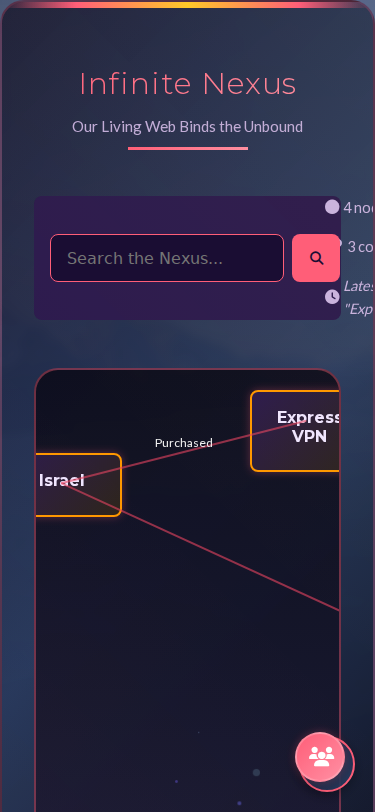
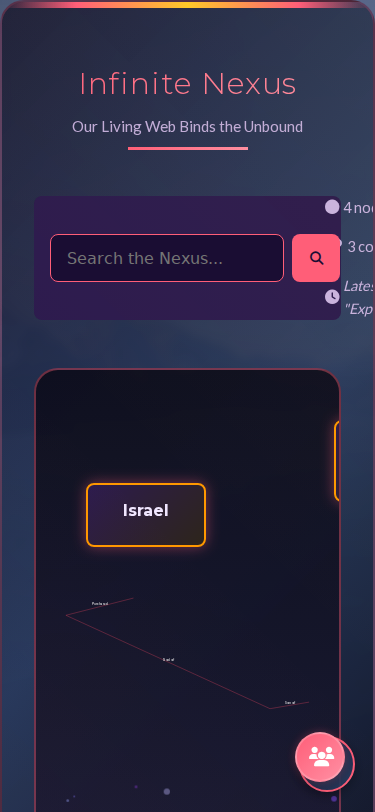
fix: improve Infinite Nexus mobile design and layout
- Add mobile responsive styles for preview controls (vertical layout)
- Center canvas initially to show more nodes in viewport
- Increase connection label font size from 12px to 14px for readability
- Fix stats text overflow on mobile with flex-direction: column
- Improve connection label rendering (only show if label exists)
- Better initial view with centered canvas positioning

🤖 Generated with [Claude Code](https://claude.com/claude-code)

diff --git a/front/js/mindmap-preview.js b/front/js/mindmap-preview.js
@@ -161,6 +161,29 @@ class MindmapPreview {
 
         // Store bounds for connection rendering
         this.canvasBounds = { minX, minY, maxX, maxY, padding, canvasWidth, canvasHeight };
+
+        // Center the canvas initially to show more nodes
+        this.centerCanvas();
+    }
+
+    centerCanvas() {
+        if (!this.canvasBounds) return;
+
+        const { canvasWidth, canvasHeight } = this.canvasBounds;
+        const containerRect = this.container.getBoundingClientRect();
+
+        // Calculate offset to center the canvas in the viewport
+        const offsetX = (containerRect.width - canvasWidth) / 2;
+        const offsetY = (containerRect.height - canvasHeight) / 2;
+
+        // Apply initial transform
+        this.panOffsetX = offsetX;
+        this.panOffsetY = offsetY;
+        this.currentTranslateX = offsetX;
+        this.currentTranslateY = offsetY;
+
+        this.nodesContainer.style.transform = `translate(${offsetX}px, ${offsetY}px)`;
+        this.connectionsContainer.style.transform = `translate(${offsetX}px, ${offsetY}px)`;
     }
     
     renderConnections() {
@@ -197,20 +220,24 @@ class MindmapPreview {
                 line.setAttribute('stroke-width', '2');
                 line.classList.add('mindmap-connection');
 
-                // Add relationship label
-                const text = document.createElementNS('http://www.w3.org/2000/svg', 'text');
-                const midX = (x1 + x2) / 2;
-                const midY = (y1 + y2) / 2;
-                text.setAttribute('x', midX);
-                text.setAttribute('y', midY - 5);
-                text.setAttribute('text-anchor', 'middle');
-                text.setAttribute('fill', '#f1f1f1');
-                text.setAttribute('font-size', '12px');
-                text.textContent = edge.relationshipLabel;
-                text.classList.add('mindmap-label');
+                // Add relationship label (only if label exists and is meaningful)
+                if (edge.relationshipLabel && edge.relationshipLabel.trim()) {
+                    const text = document.createElementNS('http://www.w3.org/2000/svg', 'text');
+                    const midX = (x1 + x2) / 2;
+                    const midY = (y1 + y2) / 2;
+                    text.setAttribute('x', midX);
+                    text.setAttribute('y', midY - 5);
+                    text.setAttribute('text-anchor', 'middle');
+                    text.setAttribute('fill', '#f1f1f1');
+                    text.setAttribute('font-size', '14px');
+                    text.setAttribute('font-weight', '500');
+                    text.textContent = edge.relationshipLabel;
+                    text.classList.add('mindmap-label');
+
+                    this.connectionsContainer.appendChild(text);
+                }
 
                 this.connectionsContainer.appendChild(line);
-                this.connectionsContainer.appendChild(text);
             }
         });
     }

diff --git a/front/index.html b/front/index.html
@@ -63,7 +63,7 @@
     <link rel="stylesheet" href="css/critical.css?v=7.9">
     
     <!-- 3. GLOBAL STYLES - Site-wide styles loaded synchronously -->
-    <link rel="stylesheet" href="css/styles.css?v=7.7">
+    <link rel="stylesheet" href="css/styles.css?v=7.8">
     
     <!-- 4. PROGRESSIVE LOADING - Non-critical CSS loaded asynchronously -->
     <link rel="preload" href="css/layout.css?v=8.5" as="style" onload="this.onload=null;this.rel='stylesheet'">
@@ -86,8 +86,8 @@
     <noscript><link rel="stylesheet" href="css/unified-modals.css?v=2.0"></noscript>
     
     <!-- 6. SHARED COMPONENTS (lazy loaded) -->
-    <link rel="preload" href="components/shared/styles.css?v=7.7" as="style" onload="this.onload=null;this.rel='stylesheet'">
-    <noscript><link rel="stylesheet" href="components/shared/styles.css?v=7.7"></noscript>
+    <link rel="preload" href="components/shared/styles.css?v=7.8" as="style" onload="this.onload=null;this.rel='stylesheet'">
+    <noscript><link rel="stylesheet" href="components/shared/styles.css?v=7.8"></noscript>
     
     <!-- 7. PAGE-SPECIFIC (lazy loaded) -->
     <link rel="preload" href="components/shared/active-users.css?v=2.1" as="style" onload="this.onload=null;this.rel='stylesheet'">
@@ -513,7 +513,7 @@
     <script src="components/shared/activeUsers.js?v=2.3"></script>
     <script src="components/shared/messageModal.js?v=6.9"></script>
     <script src="js/main.js?v=3.6"></script>
-    <script src="js/mindmap-preview.js?v=1.7"></script>
+    <script src="js/mindmap-preview.js?v=1.8"></script>
     
     <!-- Optimized Hero Particles - Hardware Accelerated -->
     <script src="js/particleSystem.js?v=1.0"></script>

diff --git a/front/css/styles.css b/front/css/styles.css
@@ -1585,6 +1585,26 @@ body.light-theme .nexus-avatar {
     padding: 0 1rem;
     background: var(--secondary);
     border-radius: var(--border-radius);
+    gap: 1rem;
+    flex-wrap: wrap;
+}
+
+@media (max-width: 768px) {
+    .mindmap-preview-controls {
+        flex-direction: column;
+        align-items: stretch;
+        gap: 0.75rem;
+        padding: 1rem;
+    }
+
+    .mindmap-search-input {
+        width: 100%;
+    }
+
+    .mindmap-stats {
+        justify-content: center;
+        font-size: 0.85rem;
+    }
 }
 
 .mindmap-search-container {
